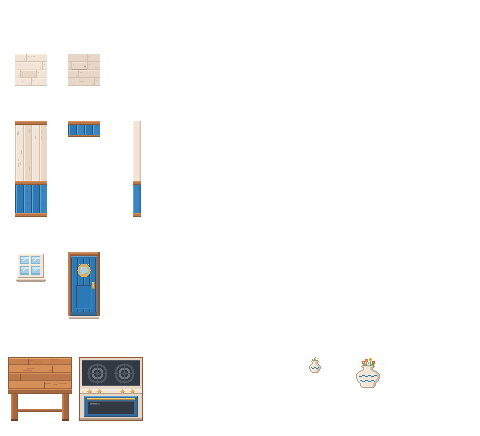
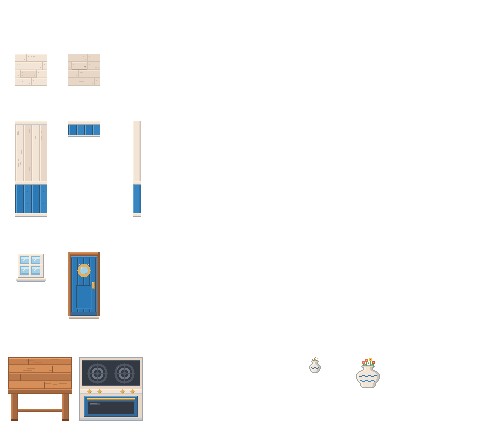
Pilot pixel art: grey-white outlines on white pieces, white wall trims, window centred on the wall
Claude-Session: https://claude.ai/code/session_017R2xVMGFyizhgT3oNq3RGh

diff --git a/tools/pixelart/shop_pilot.py b/tools/pixelart/shop_pilot.py
@@ -71,18 +71,18 @@ def wall_plain():
     for _ in range(14):                                           # wood flecks
         x = rnd.randint(0, 31); y = rnd.randint(6, 56)
         if x % 8 not in (0, 1): p.vline(x, y, y + rnd.randint(1, 3), 'c1')
-    p.rect(0, 0, 31, 3, 'w3'); p.hline(0, 31, 0, 'w5'); p.hline(0, 31, 3, 'w1')               # top trim
-    p.rect(0, 60, 31, 63, 'w3'); p.hline(0, 31, 60, 'w5'); p.hline(0, 31, 63, 'w1')            # chair rail
+    p.rect(0, 0, 31, 3, 'c3'); p.hline(0, 31, 0, 'c4'); p.hline(0, 31, 3, 'n1')               # top trim
+    p.rect(0, 60, 31, 63, 'c3'); p.hline(0, 31, 60, 'c4'); p.hline(0, 31, 63, 'n0')            # chair rail
     planks(p, 0, 31, 64, 91, 'b2', 'b3', 'b4', 'b0')                                          # blue panelling
     for x in range(0, 32, 8): p.set(x + 4, 70, 'b1'); p.set(x + 4, 82, 'b1')
-    p.rect(0, 92, 31, 95, 'w3'); p.hline(0, 31, 92, 'w5'); p.hline(0, 31, 95, 'w1')           # skirting
+    p.rect(0, 92, 31, 95, 'c3'); p.hline(0, 31, 92, 'c4'); p.hline(0, 31, 95, 'n0')           # skirting
     return p.im
 
 def wall_low():
     p = Pix(32, 16)
-    p.rect(0, 0, 31, 3, 'w3'); p.hline(0, 31, 0, 'w5'); p.hline(0, 31, 3, 'w1')
+    p.rect(0, 0, 31, 3, 'c3'); p.hline(0, 31, 0, 'c4'); p.hline(0, 31, 3, 'n0')
     planks(p, 0, 31, 4, 13, 'b2', 'b3', 'b4', 'b0')
-    p.rect(0, 14, 31, 15, 'w3'); p.hline(0, 31, 15, 'w1')
+    p.rect(0, 14, 31, 15, 'c3'); p.hline(0, 31, 15, 'n0')
     return p.im
 
 def wall_side():
@@ -90,10 +90,10 @@ def wall_side():
     p = Pix(8, 96)
     for y in range(96):
         p.set(0, y, 'c4'); p.rect(1, y, 5, y, 'c3'); p.set(6, y, 'c2'); p.set(7, y, 'c1')
-    p.rect(0, 60, 7, 63, 'w3'); p.hline(0, 7, 60, 'w5'); p.hline(0, 7, 63, 'w1')            # chair rail
+    p.rect(0, 60, 7, 63, 'c3'); p.hline(0, 7, 60, 'c4'); p.hline(0, 7, 63, 'n0')            # chair rail
     for y in range(64, 92):
         p.set(0, y, 'b4'); p.rect(1, y, 5, y, 'b3'); p.set(6, y, 'b2'); p.set(7, y, 'b1')
-    p.rect(0, 92, 7, 95, 'w3'); p.hline(0, 7, 92, 'w5'); p.hline(0, 7, 95, 'w1')
+    p.rect(0, 92, 7, 95, 'c3'); p.hline(0, 7, 92, 'c4'); p.hline(0, 7, 95, 'n0')
     return p.im
 
 # ---------- door and window (overlays on a wall; the last 6 rows hang below the base line) ----------
@@ -119,7 +119,7 @@ def door():
 def window():
     p = Pix(32, 32)
     p.rect(3, 2, 28, 25, 'c3')                                                     # white frame
-    p.hline(3, 28, 2, 'c4'); p.vline(3, 2, 25, 'c4'); p.hline(3, 28, 25, 'c0'); p.vline(28, 2, 25, 'c0')
+    p.hline(3, 28, 2, 'c4'); p.vline(3, 2, 25, 'c4'); p.hline(3, 28, 25, 'n0'); p.vline(28, 2, 25, 'n0')
     for (gx0, gy0) in ((5, 4), (16, 4), (5, 14), (16, 14)):                         # four panes
         for y in range(gy0, gy0 + 10 if gy0 == 4 else gy0 + 9):
             for x in range(gx0, gx0 + 9):
@@ -128,8 +128,8 @@ def window():
         p.hline(gx0, gx0 + 8, gy0, 'g0'); p.vline(gx0, gy0, gy0 + 8, 'g0')
         for d in range(4): p.set(gx0 + 6 - d, gy0 + 1 + d, 'c4')                   # glint
     p.rect(14, 3, 15, 24, 'c3'); p.rect(4, 12, 27, 13, 'c3'); p.vline(14, 3, 24, 'c4'); p.hline(4, 27, 12, 'c4')
-    p.rect(1, 26, 30, 28, 'c2'); p.hline(1, 30, 26, 'c4'); p.hline(1, 30, 28, 'c0')   # sill
-    p.hline(2, 29, 29, 'c0')
+    p.rect(1, 26, 30, 28, 'c2'); p.hline(1, 30, 26, 'c4'); p.hline(1, 30, 28, 'n1')   # sill
+    p.hline(2, 29, 29, 'n0')
     return p.im
 
 # ---------- table and stove (2 x 2 cells: top surface seen from above on the upper half, the front on the lower half) ----------
@@ -159,21 +159,21 @@ def table():
 
 def stove():
     p = Pix(64, 64)
-    p.rect(0, 0, 63, 31, 'c2'); p.hline(0, 63, 0, 'c4'); p.vline(0, 0, 31, 'c3'); p.vline(63, 0, 31, 'c0')    # stone rim of the top
+    p.rect(0, 0, 63, 31, 'c2'); p.hline(0, 63, 0, 'c4'); p.vline(0, 0, 31, 'c3'); p.vline(63, 0, 31, 'n1')    # stone rim of the top
     p.rect(3, 3, 60, 28, 's0'); p.hline(3, 60, 3, 's1'); p.hline(3, 60, 28, 'p0' if False else 's1')
     for cx in (18, 45):                                                             # two burners
         p.disc(cx, 16, 10, 's1'); p.disc(cx, 16, 8, 's0'); p.ring(cx, 16, 4, 6, 's2'); p.disc(cx, 16, 2, 's1')
         p.hline(cx - 9, cx + 9, 16, 's1'); p.vline(cx, 7, 25, 's1')
         p.set(cx - 7, 11, 's2'); p.set(cx - 6, 10, 's2')
-    p.rect(0, 32, 63, 36, 'c3'); p.hline(0, 63, 32, 'c4'); p.hline(0, 63, 36, 'c0')                          # front panel with knobs
+    p.rect(0, 32, 63, 36, 'c3'); p.hline(0, 63, 32, 'c4'); p.hline(0, 63, 36, 'n1')                          # front panel with knobs
     for kx in (10, 20, 43, 53):
         p.disc(kx, 34, 2, 'r1'); p.set(kx - 1, 33, 'r2'); p.set(kx + 1, 35, 'r0')
-    p.rect(0, 37, 63, 63, 'c2'); p.vline(0, 37, 63, 'c3'); p.vline(63, 37, 63, 'c0')                          # body
+    p.rect(0, 37, 63, 63, 'c2'); p.vline(0, 37, 63, 'c3'); p.vline(63, 37, 63, 'n1')                          # body
     p.rect(5, 39, 58, 59, 'b1'); p.hline(5, 58, 39, 'b4'); p.vline(5, 39, 59, 'b3'); p.hline(5, 58, 59, 'b0'); p.vline(58, 39, 59, 'b0')   # oven door frame
     p.rect(9, 44, 54, 56, 's0'); p.hline(9, 54, 44, 's1'); p.rect(11, 46, 20, 47, 's1'); p.hline(11, 17, 46, 's2')   # oven window
     p.rect(8, 41, 55, 42, 'r1'); p.hline(8, 55, 41, 'r2'); p.hline(8, 55, 42, 'r0')                            # handle
-    p.rect(0, 61, 63, 63, 'c0'); p.hline(0, 63, 63, 'w1')
-    p.hline(0, 63, 0, 'w1'); p.vline(0, 0, 63, 'w1'); p.vline(63, 0, 63, 'w1')
+    p.rect(0, 61, 63, 63, 'n1'); p.hline(0, 63, 63, 'n0')
+    p.hline(0, 63, 0, 'n0'); p.vline(0, 0, 63, 'n0'); p.vline(63, 0, 63, 'n0')
     return p.im
 
 # ---------- vases ----------
@@ -202,7 +202,7 @@ def vase_small():
     vase_shape(p, 8, rows, 'c4', 'c3', 'c1')
     for x in range(4, 12): p.set(x, 10 + (1 if x % 4 in (1, 2) else 0), 'b2')                  # blue wave band
     p.hline(6, 9, 4, 'c2')
-    autoline(p, 'c0')
+    autoline(p, 'n0')
     for x, y, c in ((7, 1, 'p1'), (8, 0, 'p1'), (10, 1, 'y0'), (5, 2, 'p1'), (6, 3, 'l1'), (9, 3, 'l1'), (7, 2, 'l1'), (8, 2, 'l2')): p.set(x, y, c)
     return p.im
 
@@ -217,7 +217,7 @@ def vase_large():
                 wave = 1 if x % 6 in (1, 2, 3) else 0
                 if (y in (18, 24) and wave == 0) or (y in (19, 23) and wave == 1): p.set(x, y, 'b2' if y in (18, 19) else 'b3')
     p.hline(10, 21, 9, 'c2')
-    autoline(p, 'c0')
+    autoline(p, 'n0')
     stems = ((14, 3, 8, 'p1'), (18, 2, 8, 'y0'), (11, 5, 8, 'p1'), (21, 5, 9, 'p0'))
     for fx, fy, ey, col in stems:
         p.vline(fx, fy + 2, ey, 'l1')
@@ -254,7 +254,7 @@ def room(pieces, cols=9, rows=6, k=3):
     im.alpha_composite(pieces['wdeco_door_01'], (1 * C, 3 * C - 64 - 6 + 6 - 0 - 6 + 0 + 0)) if False else None
     base = 3 * C                                                                                # the floor line (bottom of the wall)
     im.alpha_composite(pieces['wdeco_door_01'], (1 * C, base - 70 + 6))
-    im.alpha_composite(pieces['wdeco_window_01'], (4 * C, base - 42 * 1 - 32 + 6 + 0))        # window base 42 px up the wall
+    im.alpha_composite(pieces['wdeco_window_01'], (4 * C, 3 * C - 96 + 4 + (56 - 28) // 2 - 2))        # window base 42 px up the wall
     for r in range(rows): im.alpha_composite(pieces['wall_side_01'], (0, 0)) if False else None
     im.alpha_composite(pieces['rest_stove_01'], (6 * C, base))                                  # 2 x 2 cells, standing on its bottom edge
     tx, ty = 2 * C, base + 2 * C                                                               # table

diff --git a/tools/pixelart/palette.py b/tools/pixelart/palette.py
@@ -5,6 +5,7 @@ P = {
     'out': h('#3b2416'),                       # darkest brown, outlines
     'w0': h('#6e4023'), 'w1': h('#8c5836'), 'w2': h('#a46840'), 'w3': h('#ba774a'), 'w4': h('#c67f4d'), 'w5': h('#d68f58'), 'w6': h('#e8a56f'),   # wood, dark to light
     'c0': h('#b49f8c'), 'c1': h('#d1c1b3'), 'c2': h('#e8d6c7'), 'c3': h('#f2e4d6'), 'c4': h('#fbefda'),                                           # cream, dark to light
+    'n0': h('#9ea5ac'), 'n1': h('#c4c9cd'),                                                                                      # grey-white: outlines of white things
     'b0': h('#2f5170'), 'b1': h('#366c9c'), 'b2': h('#2c79b7'), 'b3': h('#3885c0'), 'b4': h('#5fa6d6'),                                           # blue, dark to light
     'g0': h('#7fb4d2'), 'g1': h('#a3d0e6'), 'g2': h('#cde8f2'),                                                                                  # glass
     's0': h('#333942'), 's1': h('#4d5560'), 's2': h('#6c7580'), 's3': h('#8aa7b9'),                                                              # charcoal / steel
